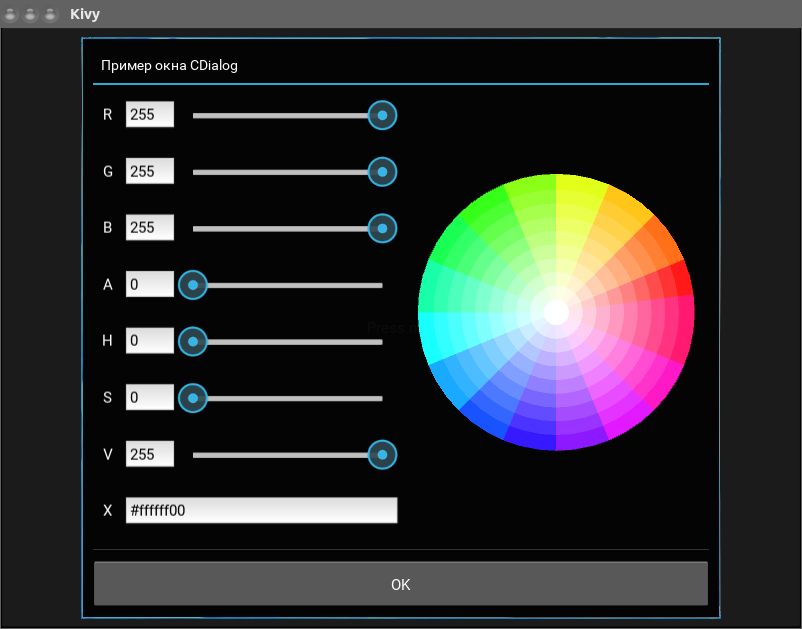
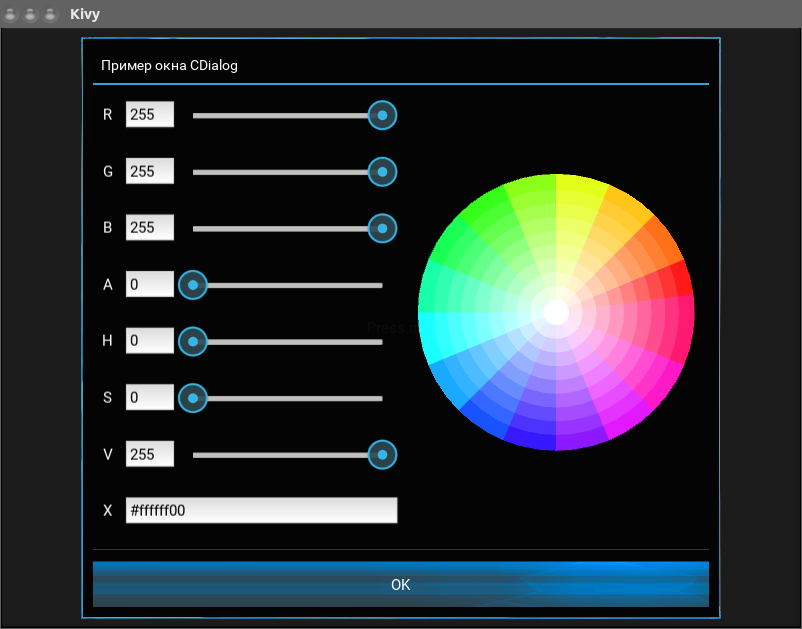
initial commit

Changed region(s): [[0.0935, 0.876, 0.904, 0.9666]]

diff --git a/Libs/uix/kdialog/pdialog.py b/Libs/uix/kdialog/pdialog.py
@@ -29,7 +29,7 @@ except Exception as text_error:
 __version__ = '1.0.0'
 
 
-class BDialog(Dialog):
+class PDialog(Dialog):
     complete = ObjectProperty(None)
     '''Функция для обработки событий окна.
 
@@ -76,7 +76,7 @@ class BDialog(Dialog):
     size_hint = ListProperty((.7, .5))
 
     def __init__(self, **kvargs):
-        super(BDialog, self).__init__(**kvargs)
+        super(PDialog, self).__init__(**kvargs)
 
         self.box = BoxLayout(orientation='vertical')
         self.label_one = Label(text='', size_hint=(1, .1), markup=True)
@@ -196,7 +196,7 @@ if __name__ in ('__main__', '__android__'):
 
         def show_progress(self, *args):
             self.progress_load = \
-                BDialog(title='Пример окна PDialog',
+                PDialog(title='Пример окна PDialog',
                         retrieve_callback=self.retrieve_callback,
                         events_callback=self.download_cancel,
                         complete=self.complete)

diff --git a/Libs/uix/kdialog/kdialog.py b/Libs/uix/kdialog/kdialog.py
@@ -4,8 +4,6 @@
 # kdialog.py
 #
 
-import os
-
 try:
     from kivy.uix.widget import Widget
     from kivy.uix.boxlayout import BoxLayout
@@ -29,13 +27,9 @@ except Exception as text_error:
 
 __version__ = '1.0.0'
 
-root = os.path.split(__file__)[0]
-if root == '':
-    root = os.getcwd()
-
 
 class KDialog(Dialog):
-    Builder.load_file('{}/kv/kdialog.kv'.format(root))
+    Builder.load_file('{}/kv/kdialog.kv'.format(Dialog.root))
 
     def __init__(self, **kvargs):
         super(KDialog, self).__init__(**kvargs)
@@ -100,7 +94,7 @@ class KDialog(Dialog):
         self.param = param
         button = None
         if not image:
-            image = '{}/data/loading.gif'.format(root)
+            image = '{}/data/loading.gif'.format(self.root)
 
         if self.param not in ['info', 'query', 'logpass', 'text',
                               'loaddialog']:

diff --git a/Libs/uix/kdialog/bdialog.py b/Libs/uix/kdialog/bdialog.py
@@ -99,15 +99,8 @@ class BDialog(Dialog):
 
 
 if __name__ in ('__main__', '__android__'):
-    import os
-
     from kivy.uix.boxlayout import BoxLayout
     from kivy.base import runTouchApp
-
-
-    root = os.path.split(__file__)[0]
-    if root == '':
-        root = os.getcwd()
 
 
     class Test(BoxLayout):
@@ -126,7 +119,7 @@ if __name__ in ('__main__', '__android__'):
             for i in range(50):
                 button_list.append(
                     ['Text{0:3d}'.format(i),
-                     '{}/data/button_ok.png'.format(root)]
+                     '{}/data/button_ok.png'.format(Dialog.root)]
                 )
 
             BDialog(

diff --git a/Libs/uix/kdialog/adialog.py b/Libs/uix/kdialog/adialog.py
@@ -4,8 +4,6 @@
 # adialog.py
 #
 
-import os
-
 try:
     from kivy.uix.boxlayout import BoxLayout
     from kivy.uix.label import Label
@@ -25,10 +23,6 @@ except Exception as text_error:
 
 
 __version__ = '1.0.0'
-
-root = os.path.split(__file__)[0]
-if root == '':
-    root = os.getcwd()
 
 
 class ADialog(Dialog):
@@ -55,7 +49,7 @@ class ADialog(Dialog):
 
     info_program = ListProperty([])
 
-    Builder.load_file('{}/kv/adialog.kv'.format(root))
+    Builder.load_file('{}/kv/adialog.kv'.format(Dialog.root))
 
     def __init__(self, **kvargs):
         super(ADialog, self).__init__(**kvargs)

diff --git a/Libs/uix/kdialog/dialog.py b/Libs/uix/kdialog/dialog.py
@@ -36,6 +36,8 @@ class ImageButton(ButtonBehavior, Image):
 
 
 class Dialog(Popup):
+    '''Базоывй класс.'''
+
     retrieve_callback = ObjectProperty(_pass)
     '''Пользовательская функция, вызываемая при работе прогресса.
 
@@ -116,6 +118,7 @@ class Dialog(Popup):
 
     dp = ObjectProperty(metrics.dp)
     sp = ObjectProperty(metrics.sp)
+    root = root
 
     def __init__(self, **kvargs):
         super(Dialog, self).__init__(**kvargs)

diff --git a/Libs/uix/kdialog/cdialog.py b/Libs/uix/kdialog/cdialog.py
@@ -44,7 +44,9 @@ class CDialog(Dialog):
 
         box = BoxLayout(orientation='vertical')
         select_color = ColorPicker(hex_color=self.default_color)
-        button_select = Button(text=self.text_button_ok, size_hint=(1, .1))
+        button_select = \
+            Button(text=self.text_button_ok, size_hint=(1, .1),
+                   background_normal=self.background_image_buttons[0])
 
         box.add_widget(select_color)
         box.add_widget(Widget(size_hint=(None, .02)))

diff --git a/Libs/uix/kdialog/fdialog.py b/Libs/uix/kdialog/fdialog.py
@@ -53,6 +53,7 @@ class FDialog(Dialog):
             box.add_widget(SettingSpacer())
             box.add_widget(
                 Button(text=self.text_button_ok, size_hint=(1, .1),
+                       background_normal=self.background_image_buttons[0],
                        on_press=self.events_callback)
             )
             fdialog.filters = [self.is_dir]

diff --git a/Libs/uix/kdialog/__init__.py b/Libs/uix/kdialog/__init__.py
@@ -377,10 +377,11 @@ import kivy
 kivy.require('1.9.2')
 
 from . adialog import ADialog
-from . kdialog import KDialog
-from . fdialog import FDialog
-from . cdialog import CDialog
 from . bdialog import BDialog
+from . cdialog import CDialog
+from . fdialog import FDialog
+from . pdialog import PDialog
+from . kdialog import KDialog
 
 
 __version__ = '1.0.0'

diff --git a/Libs/uix/kdialog/README.md b/Libs/uix/kdialog/README.md
@@ -17,7 +17,10 @@ kdialog
 
 ЗАПУСК ПРИМЕРОВ
 ----------------
-python [`'kdialog.py', 'adialog.py', 'cdialog.py', 'fdialog.py'`]
+
+```python
+python [`'kdialog.py', 'adialog.py', 'cdialog.py', 'fdialog.py', 'bdialog', 'pdialog'`]
+```
 
 ВЕРСИЯ
 -------
@@ -63,7 +66,10 @@ kdialog
 
 Импорт модуля в проект
 ----------------------
-`from kdialog import class_module`
+
+```python
+from kdialog import class_module
+```
 
 Описание класса KDialog
 ------------------------
@@ -83,11 +89,15 @@ kdialog
 Пример окна с параметром 'info'
 -------------------------------
 
+```python
     KDialog().show(text='Твой текст!', param='info')
+```
 
 или
 
+```python
     KDialog().show(text='Твой текст!')
+```
 
 ![ScreenShot](https://raw.githubusercontent.com/HeaTTheatR/KDialog/master/data/screenshots/info.png)
 
@@ -101,6 +111,7 @@ kdialog
 при создании экземпляра класса функцию-обработчик. Вы можете использовать
 три управляющие кнопки **text_button_ok, text_button_no, text_button_cancel**:
 
+```python
     def dialog_show(self, *args):
         def dialog_answer_handler(answer):
             print(answer)
@@ -108,10 +119,12 @@ kdialog
         KDialog(answer_callback=dialog_answer_handler).show(
             text_button_ok='Yes', text_button_no='No',
             text=__doc__, param='query')
+```
 
 Также для всех типов окон вы можете указать функцию, которая будет вызвана
 при закрытии окна, передав ее в параметр **dismiss_callback**:
 
+```python
     def dialog_show(self, *args):
         def dialog_answer_handler(answer):
             print(answer)
@@ -123,34 +136,40 @@ kdialog
                 dismiss_callback=dialog_dismiss_handler).show(
             text_button_ok='Yes', text_button_no='No',
             text=__doc__, param='query')
+```
 
 ![ScreenShot](https://raw.githubusercontent.com/HeaTTheatR/KDialog/master/data/screenshots/query.png)
 
 Вы можете использовать виждет RstDocument для вывода текстовой информации.
 Укажите дополнительный параметр **rst=True** при вызове окна:
 
+```python
     KDialog(answer_callback=dialog_answer_handler,
             dismiss_callback=dialog_dismiss_handler).show(
         text_button_ok='Yes', text_button_no='No',
         text=__doc__, param='query', rst=True)
+```
 
 ![ScreenShot](https://raw.githubusercontent.com/HeaTTheatR/KDialog/master/data/screenshots/rst.png)
 
 Пример окна с параметром 'text'
 --------------------------------
 
+```python
         def show_dialog(self, *args):
             def edit_status(answer):
                 print(answer)
 
             KDialog(answer_callback=edit_status).show(
                 text_button_ok='Yes', param='text')
+```
 
 ![ScreenShot](https://raw.githubusercontent.com/HeaTTheatR/KDialog/master/data/screenshots/text.png)
 
 Пример окна с параметром 'logpass'
 ----------------------------------
 
+```python
         def show_dialog(self, *args):
             def set_login_password(data):
                 """
@@ -167,6 +186,7 @@ kdialog
 
             KDialog(answer_callback=set_login_password).show(
                 text_button_ok='Yes', param='logpass', password=True)
+```
 
 ![ScreenShot](https://raw.githubusercontent.com/HeaTTheatR/KDialog/master/data/screenshots/logpass.png)
 
@@ -176,6 +196,7 @@ kdialog
 Пример окна с параметром 'loaddialog'
 -------------------------------------
 
+```python
         def show_dialog(self, *args):
             def connection_to_server(*args):
                 import urllib
@@ -186,6 +207,7 @@ kdialog
 
             KDialog(progress_callback=connection_to_server).show(
                 param='loaddialog')
+```
 
 ![ScreenShot](https://raw.githubusercontent.com/HeaTTheatR/KDialog/master/data/screenshots/loaddialog.png)
 
@@ -204,6 +226,7 @@ kdialog
 Пример использования
 ---------------------
 
+```python
         def events_callback(self, instance_label, text_link):
             print(text_link)
 
@@ -280,6 +303,7 @@ kdialog
                     events_callback=self.events_callback,
                     logo_program=logo_program, info_program=info_program,
                     name_program=name_program)
+```
 
 ![ScreenShot](https://raw.githubusercontent.com/HeaTTheatR/KDialog/master/data/screenshots/about.png)
 
@@ -297,6 +321,7 @@ kdialog
 Пример использования
 ---------------------
 
+```python
         def select(self, *args):
             self.file_manager.dismiss()
 
@@ -310,6 +335,7 @@ kdialog
                 FDialog(events_callback=self.select, size_hint=(.5, .9),
                         filter='folder')
             return self.file_manager
+```
 
 ![ScreenShot](https://raw.githubusercontent.com/HeaTTheatR/KDialog/master/data/screenshots/fdialog.png)
 
@@ -320,12 +346,14 @@ kdialog
 Пример использования
 ---------------------
 
+```python
         def select(self, *args):
             print(args[0])
 
         def show_palette(self, *args):
             self.select_color = \
                 CDialog(events_callback=self.select, size_hint=(.8, .97))
+```
 
 ![ScreenShot](https://raw.githubusercontent.com/HeaTTheatR/KDialog/master/data/screenshots/cdialog.png)
 
@@ -339,13 +367,17 @@ kdialog
 **background_image_buttons** свои значения. Для фона окна это строка - путь 
 к изображению декоратора. По умолчанию это
 
+```python
     'data/decorator.png'
+```
 
-Для фона кнопок используйте словарь. По умолчанию это - 
-
+Для фона кнопок используйте словарь. По умолчанию это -
+ 
+```python
     background_image_buttons = (
         {0: 'data/button_ok.png', 1: 'data/button_no.png', 2: 'data/button_cancel.png'}
     )
+```
 
 Описание класса BDialog
 ------------------------
@@ -356,6 +388,7 @@ kdialog
 Передайте при инициализации класса BDialog параметру button_list список вида 
 ['Текст кнопки', 'путь к фону кнопки', ...]:
 
+```python
         def on_press(self, instance_button):
             print(instance_button.id)
 
@@ -370,6 +403,7 @@ kdialog
             BDialog(
                 events_callback=self.on_press, button_list=button_list,
                 hint_x=1.8, title='Пример окна BDialog').show()
+```
 
 ![ScreenShot](https://raw.githubusercontent.com/HeaTTheatR/KDialog/master/data/screenshots/bdialog.png)
 
@@ -380,6 +414,7 @@ kdialog
 Пример использования
 ---------------------
 
+```python
         def complete(self):
             '''Функция вызывается после окончания цикла прогресса.'''
 
@@ -413,6 +448,7 @@ kdialog
                         events_callback=self.download_cancel,
                         complete=self.complete)
             self.progress_load.show()
+```
 
 ![ScreenShot](https://raw.githubusercontent.com/HeaTTheatR/KDialog/master/data/screenshots/pdialog.png)
 
